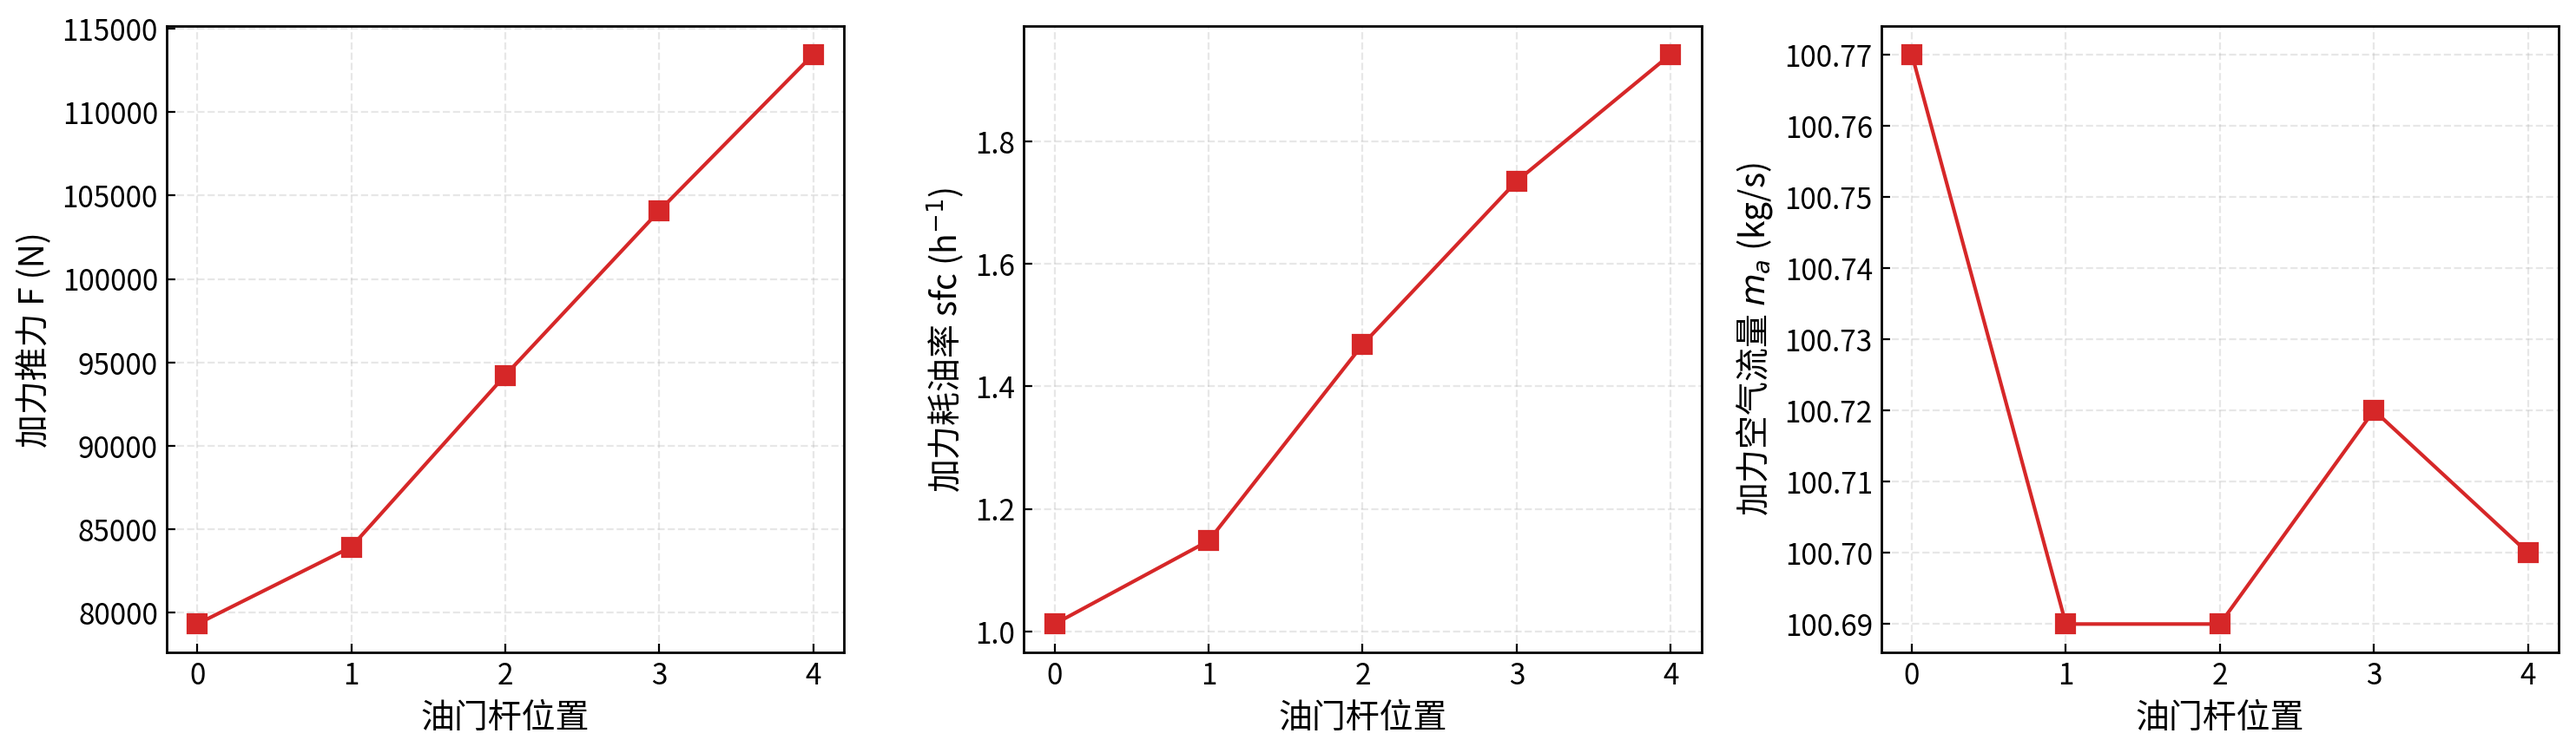
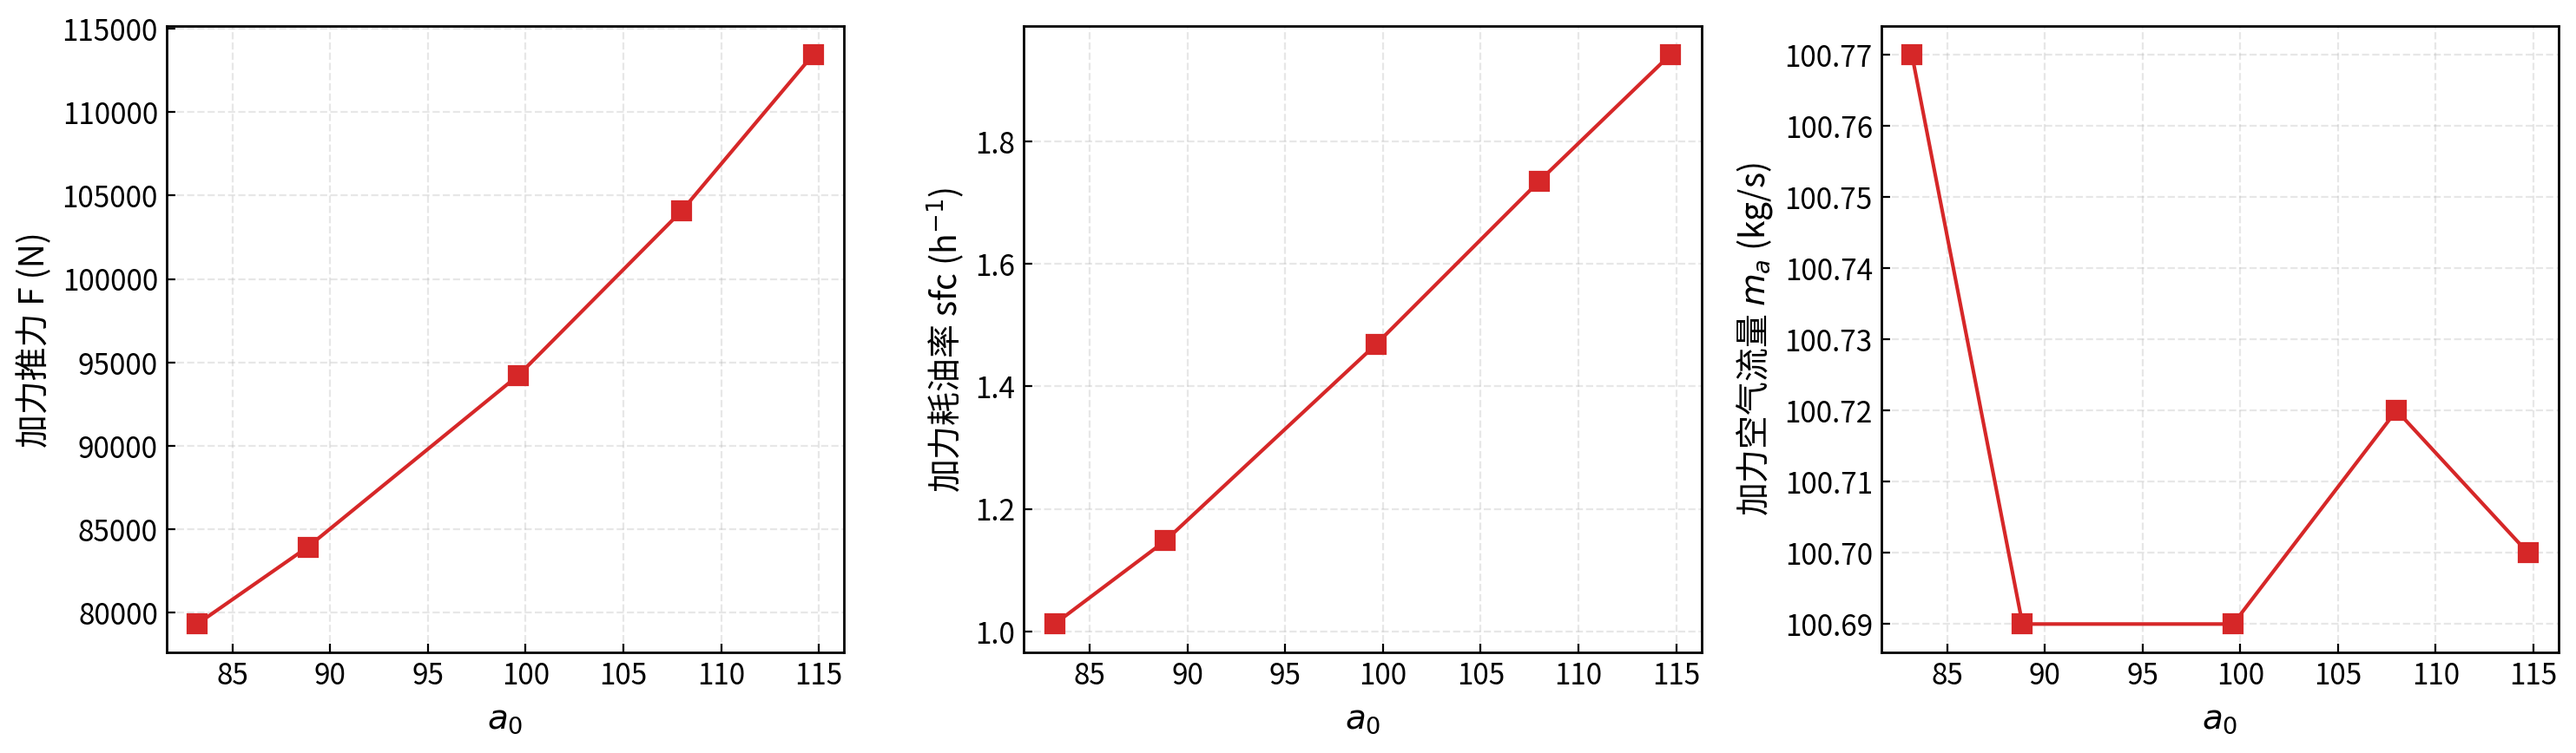
Fix afterburner x-axis

diff --git a/lab1/scripts/process_exp1.py b/lab1/scripts/process_exp1.py
@@ -69,13 +69,13 @@ def plot_throttle(df):
     n2 = thr['n2'].values
 
     curves = [
-        ('F_N', n1, 'F (N)', '$n_1$'),
-        ('alpha1', n1, '$\\alpha_1$ (°)', '$n_1$'),
-        ('pi_c', n2, '$\\pi_c^*$', '$n_2$'),
-        ('alpha2', n2, '$\\alpha_2$ (°)', '$n_2$'),
-        ('F_N', n2, 'F (N)', '$n_2$'),
-        ('sfc', n2, 'sfc (h$^{-1}$)', '$n_2$'),
-        ('ma', n2, '$m_a$ (kg/s)', '$n_2$'),
+        ('F_N', n1, 'F (N)', '$n_{1\\mathrm{cor}}$'),
+        ('alpha1', n1, '$\\alpha_1$ (°)', '$n_{1\\mathrm{cor}}$'),
+        ('pi_c', n2, '$\\pi_c^*$', '$n_{2\\mathrm{cor}}$'),
+        ('alpha2', n2, '$\\alpha_2$ (°)', '$n_{2\\mathrm{cor}}$'),
+        ('F_N', n2, 'F (N)', '$n_{2\\mathrm{cor}}$'),
+        ('sfc', n2, 'sfc (h$^{-1}$)', '$n_{2\\mathrm{cor}}$'),
+        ('ma', n2, '$m_a$ (kg/s)', '$n_{2\\mathrm{cor}}$'),
     ]
 
     fig, axes = plt.subplots(4, 2, figsize=(14, 14))
@@ -93,7 +93,7 @@ def plot_throttle(df):
 def plot_afterburner(df):
     """加力特性曲线（后5行）"""
     af = df.iloc[8:]
-    x = range(len(af))
+    x = af['alpha0'].values
     curves = [
         ('F_N', '加力推力 F (N)'),
         ('sfc', '加力耗油率 sfc (h$^{-1}$)'),
@@ -102,7 +102,7 @@ def plot_afterburner(df):
     fig, axes = plt.subplots(1, 3, figsize=(15, 4.5))
     for ax, (col, yl) in zip(axes, curves):
         ax.plot(x, af[col].values, 's-', color='#d62728', markersize=8)
-        ax.set_xlabel("油门杆位置"); ax.set_ylabel(yl); ax.grid(True, alpha=0.3)
+        ax.set_xlabel("$a_0$"); ax.set_ylabel(yl); ax.grid(True, alpha=0.3)
     fig.tight_layout()
     fig.savefig(os.path.join(FIG_DIR, "exp1_afterburner_characteristics.png"), dpi=200)
     plt.close()

diff --git a/lab1/reports/lab1_report.tex b/lab1/reports/lab1_report.tex
@@ -2,9 +2,9 @@
 \input{../../common/report_template}
 
 \renewcommand{\courseName}{航空发动机实践}
-\renewcommand{\studentName}{姓名}
-\renewcommand{\studentId}{学号}
-\renewcommand{\studentClass}{班级}
+\renewcommand{\studentName}{郎宸}
+\renewcommand{\studentId}{2023301998}
+\renewcommand{\studentClass}{07012310}
 \renewcommand{\expDate}{2026年\ 5月\ 26日}
 
 \begin{document}
